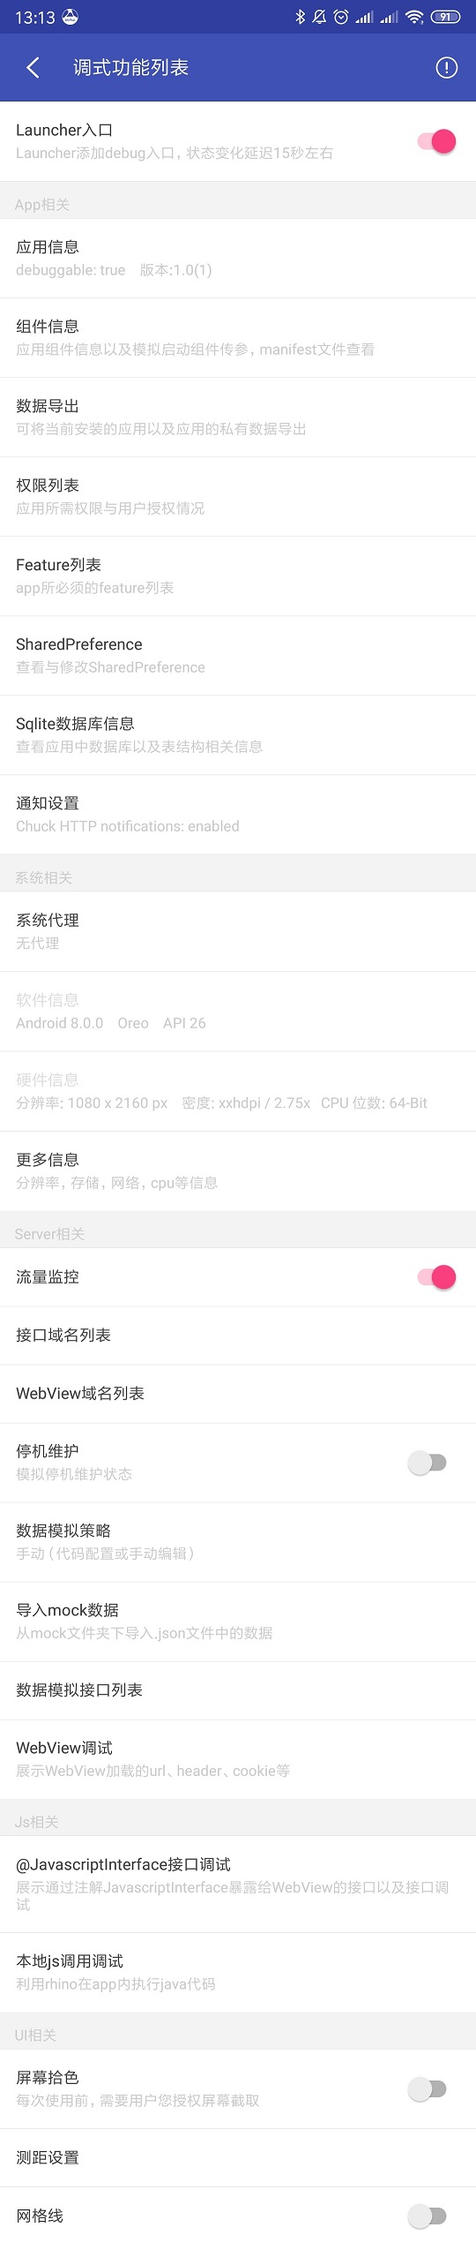
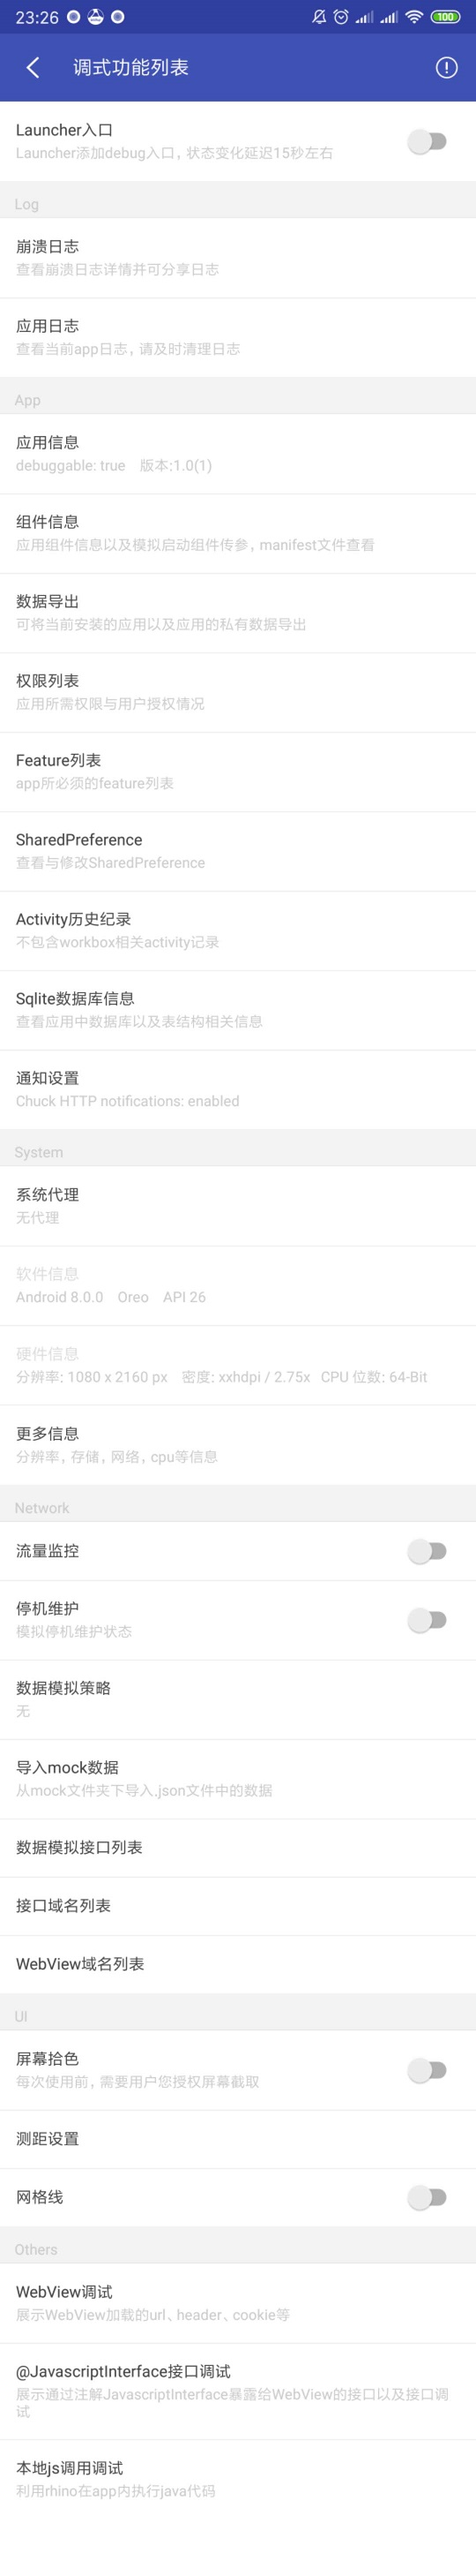
0.8.5 release

diff --git a/workbox/src/main/java/com/su/workbox/Workbox.java b/workbox/src/main/java/com/su/workbox/Workbox.java
@@ -23,6 +23,7 @@ import com.su.workbox.ui.app.DataExportActivity;
 import com.su.workbox.ui.app.DatabaseListActivity;
 import com.su.workbox.ui.app.PermissionListActivity;
 import com.su.workbox.ui.app.record.ActivityLifecycleListener;
+import com.su.workbox.ui.log.crash.CrashLogHandler;
 import com.su.workbox.ui.main.FloatEntry;
 import com.su.workbox.ui.main.WorkboxMainActivity;
 import com.su.workbox.ui.mock.MockGroupHostActivity;
@@ -90,6 +91,10 @@ public class Workbox {
     @NonNull
     public static String getWebViewHost() {
         return SpHelper.getWorkboxSharedPreferences().getString(SpHelper.COLUMN_WEB_VIEW_HOST, "");
+    }
+
+    public static Thread.UncaughtExceptionHandler newLogUncaughtExceptionHandler(boolean killProcess) {
+        return new CrashLogHandler(killProcess);
     }
 
     public static Intent getWorkboxMainIntent() {

diff --git a/sample/src/main/java/com/su/sample/SampleApplication.java b/sample/src/main/java/com/su/sample/SampleApplication.java
@@ -6,7 +6,6 @@ import android.content.SharedPreferences;
 import android.preference.PreferenceManager;
 
 import com.su.workbox.Workbox;
-import com.su.workbox.ui.log.crash.CrashLogHandler;
 
 import java.util.HashSet;
 import java.util.Set;
@@ -24,7 +23,9 @@ public class SampleApplication extends Application {
         super.onCreate();
         sContext = this;
         initWorkbox(this);
-        Thread.setDefaultUncaughtExceptionHandler(new CrashLogHandler(true));
+        if (BuildConfig.DEBUG) {
+            Thread.setDefaultUncaughtExceptionHandler(Workbox.newLogUncaughtExceptionHandler(true));
+        }
         initSharedPreference();
     }
 

diff --git a/workbox-no-op/src/main/java/com/su/workbox/Workbox.java b/workbox-no-op/src/main/java/com/su/workbox/Workbox.java
@@ -43,6 +43,10 @@ public class Workbox {
         return null;
     }
 
+    public static Thread.UncaughtExceptionHandler newLogUncaughtExceptionHandler(boolean killProcess) {
+        return null;
+    }
+
     @Nullable
     public static Intent getWorkboxMainIntent() {
         return null;

diff --git a/README.md b/README.md
@@ -18,10 +18,10 @@ Android 4.4+ (API level 19+)
 ## Workbox
 
 ```groovy
-debugApi 'com.su:workbox.annotations:0.8.3'
-debugAnnotationProcessor 'com.su:workbox.compiler:0.8.3'
-debugImplementation 'com.su:workbox:0.8.3'
-releaseImplementation 'com.su:workbox-no-op:0.8.3'
+debugApi 'com.su:workbox.annotations:0.8.5'
+debugAnnotationProcessor 'com.su:workbox.compiler:0.8.5'
+debugImplementation 'com.su:workbox:0.8.5'
+releaseImplementation 'com.su:workbox-no-op:0.8.5'
 
 ```
 
@@ -47,6 +47,23 @@ private static void initWorkbox(Application application) {
     Workbox.init(application, "您的WorkboxSupplier类名");
 }
 ```
+
+收集崩溃日志
+
+需要将CrashLogHandler设置为DefaultUncaughtExceptionHandler
+
+```java
+if (BuildConfig.DEBUG) {
+    Thread.setDefaultUncaughtExceptionHandler(Workbox.newLogUncaughtExceptionHandler(true));
+}
+```
+
+或者，在您的UncaughtExceptionHandler中调用CrashLogHandler其`uncaughtException`方法
+
+根据需要设置是否杀死进程
+
+
+
 
 模拟activity传参跳转时，可以对activity进行如下类似配置
 
